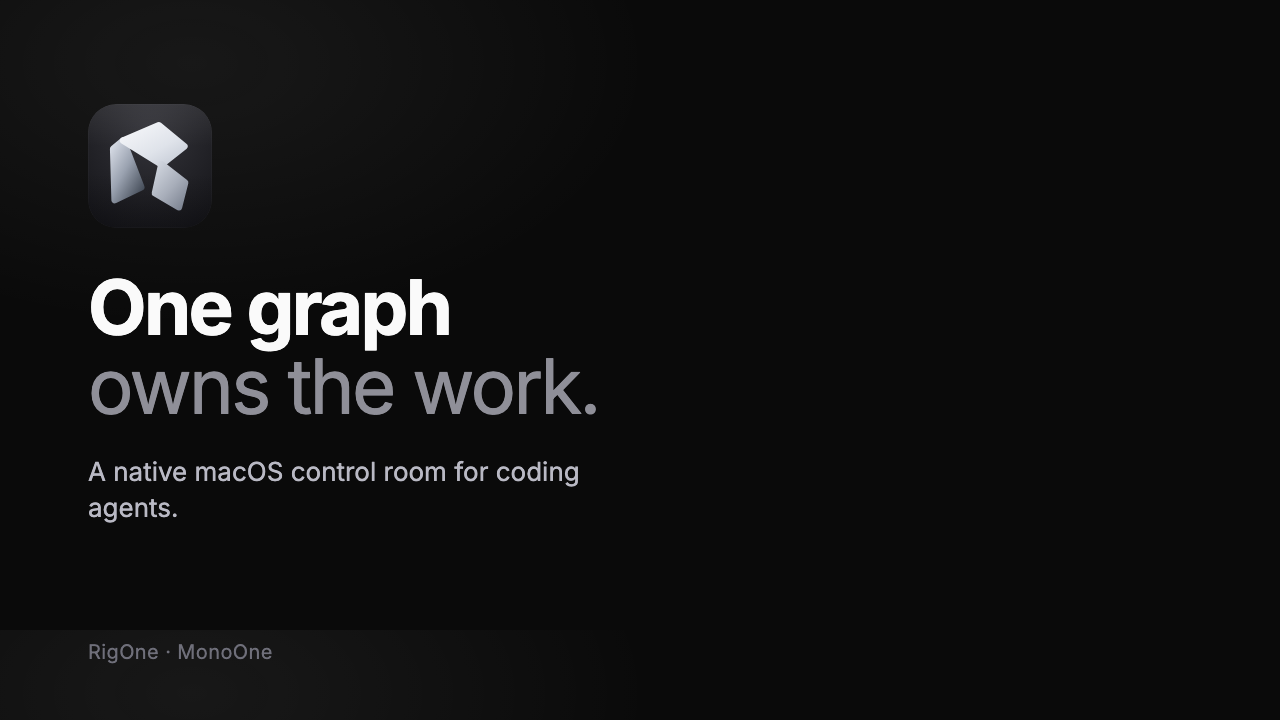
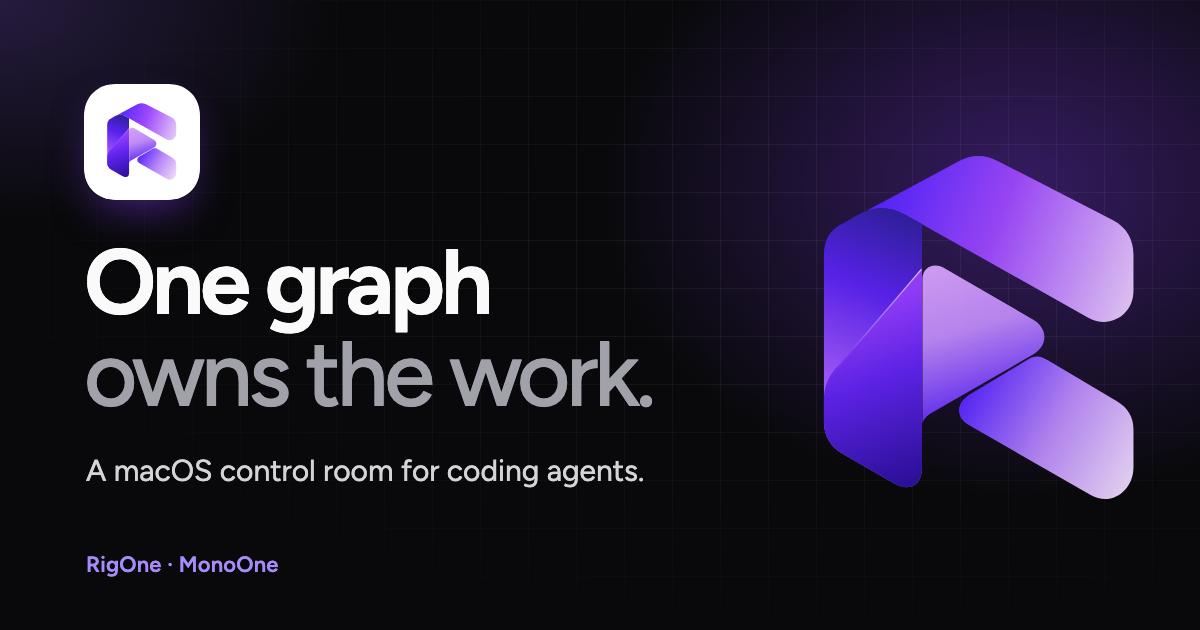
feat(site): use the new rigone mark from monoone-landing-page
RigMark.vue is now the same drawing as RigOneMark.vue in monoone-landing-page (purple ribbon on a
white tile). The favicon, app icons, web manifest and Open Graph image are generated from it.

diff --git a/app/components/RigMark.vue b/app/components/RigMark.vue
@@ -1,20 +1,20 @@
 <script setup lang="ts">
-// RigOne symbol: one ribbon folded twice, three planes. Geometry is the same drawing the
-// application ships (docs/branding/rig-one-mark.svg in monoone-dev/rig-one), scaled from the
-// 1024 icon canvas onto the 24 grid — the mark on this page and the mark in the Dock cannot
-// drift apart. Inlined so the gradient ids stay unique on a page that uses the mark twice.
-// `tile: false` drops the dark app-icon tile and leaves the folded ribbon alone.
+// RigOne symbol, from app/assets/brand/rig-one-icon.svg — the same component monoone-landing-page
+// uses (RigOneMark.vue there), so the mark cannot drift between the two sites.
+// Inlined so gradient ids stay unique on a page that shows the mark more than once.
+// Drawn on IndexOne's 1254 canvas with the same tile and shadow, so the family matches in size.
+// `tile: false` drops the white app-icon tile and crops to the folded ribbon.
 const props = withDefaults(defineProps<{ tile?: boolean }>(), { tile: true })
 
 const id = useId()
 const paint = (name: string) => `url(#${id}-${name})`
-const viewBox = computed(() => (props.tile ? '0 0 24 24' : '3.9 3.2 16.2 17.6'))
+const viewBox = computed(() => (props.tile ? '0 0 1254 1254' : '306 250 635 692'))
 </script>
 
 <template>
   <svg
     :viewBox="viewBox"
-    class="block"
+    class="block size-full overflow-visible"
     role="img"
     aria-label="RigOne"
   >
@@ -23,114 +23,191 @@ const viewBox = computed(() => (props.tile ? '0 0 24 24' : '3.9 3.2 16.2 17.6'))
         :id="`${id}-tile`"
         x1="0"
         y1="0"
-        x2="0.6"
+        x2="1"
         y2="1"
       >
-        <stop stop-color="#34343a" />
-        <stop
-          offset=".52"
-          stop-color="#232328"
-        />
-        <stop
-          offset="1"
-          stop-color="#131317"
-        />
-      </linearGradient>
-      <linearGradient
-        :id="`${id}-shaded`"
-        x1="0.1"
-        y1="0"
-        x2="0.9"
-        y2="1"
-      >
-        <stop stop-color="#d3d8e2" />
-        <stop
-          offset=".46"
-          stop-color="#9aa2b0"
-        />
-        <stop
-          offset="1"
-          stop-color="#434b57"
-        />
-      </linearGradient>
-      <linearGradient
-        :id="`${id}-lit`"
-        x1="0.05"
-        y1="0"
-        x2="0.95"
-        y2="1"
-      >
-        <stop stop-color="#f6f7fa" />
-        <stop
-          offset=".6"
-          stop-color="#dfe3ea"
-        />
-        <stop
-          offset="1"
-          stop-color="#c4cad5"
-        />
-      </linearGradient>
-      <linearGradient
-        :id="`${id}-foot`"
-        x1="0.1"
-        y1="0"
-        x2="0.9"
-        y2="1"
-      >
-        <stop stop-color="#cfd4dd" />
+        <stop stop-color="#ffffff" />
         <stop
           offset=".55"
-          stop-color="#a8aeba"
+          stop-color="#faf8ff"
         />
         <stop
           offset="1"
-          stop-color="#7f8694"
+          stop-color="#f3f0fb"
         />
       </linearGradient>
+      <linearGradient
+        :id="`${id}-upper`"
+        gradientUnits="userSpaceOnUse"
+        x1="437"
+        y1="350"
+        x2="945"
+        y2="542"
+      >
+        <stop stop-color="#5826ff" />
+        <stop
+          offset=".43"
+          stop-color="#9d48fb"
+        />
+        <stop
+          offset="1"
+          stop-color="#e6cafa"
+        />
+      </linearGradient>
+      <linearGradient
+        :id="`${id}-left`"
+        gradientUnits="userSpaceOnUse"
+        x1="457"
+        y1="372"
+        x2="309"
+        y2="724"
+      >
+        <stop stop-color="#30209f" />
+        <stop
+          offset=".42"
+          stop-color="#5922ef"
+        />
+        <stop
+          offset="1"
+          stop-color="#aa60ff"
+        />
+      </linearGradient>
+      <linearGradient
+        :id="`${id}-stem`"
+        gradientUnits="userSpaceOnUse"
+        x1="365"
+        y1="579"
+        x2="492"
+        y2="916"
+      >
+        <stop stop-color="#963eff" />
+        <stop
+          offset=".4"
+          stop-color="#6124ef"
+        />
+        <stop
+          offset="1"
+          stop-color="#2d109f"
+        />
+      </linearGradient>
+      <linearGradient
+        :id="`${id}-play`"
+        gradientUnits="userSpaceOnUse"
+        x1="560"
+        y1="482"
+        x2="646"
+        y2="773"
+      >
+        <stop stop-color="#d5a0fb" />
+        <stop
+          offset=".44"
+          stop-color="#be8af6"
+        />
+        <stop
+          offset="1"
+          stop-color="#6029fa"
+        />
+      </linearGradient>
+      <linearGradient
+        :id="`${id}-lower`"
+        gradientUnits="userSpaceOnUse"
+        x1="616"
+        y1="722"
+        x2="937"
+        y2="898"
+      >
+        <stop stop-color="#5c29ff" />
+        <stop
+          offset=".5"
+          stop-color="#b888f8"
+        />
+        <stop
+          offset="1"
+          stop-color="#ebd6fb"
+        />
+      </linearGradient>
+      <linearGradient
+        :id="`${id}-crease`"
+        gradientUnits="userSpaceOnUse"
+        x1="373"
+        y1="658"
+        x2="512"
+        y2="491"
+      >
+        <stop
+          stop-color="#d9b5ff"
+          stop-opacity=".15"
+        />
+        <stop
+          offset="1"
+          stop-color="#efe0ff"
+          stop-opacity=".9"
+        />
+      </linearGradient>
+      <filter
+        :id="`${id}-tile-shadow`"
+        x="-25%"
+        y="-20%"
+        width="150%"
+        height="155%"
+        color-interpolation-filters="sRGB"
+      >
+        <feGaussianBlur
+          in="SourceAlpha"
+          stdDeviation="30"
+        />
+        <feOffset dy="28" />
+        <feComponentTransfer result="shadow-alpha">
+          <feFuncA
+            type="linear"
+            slope=".24"
+          />
+        </feComponentTransfer>
+        <feFlood flood-color="#5a3fb8" />
+        <feComposite
+          operator="in"
+          in2="shadow-alpha"
+        />
+        <feMerge>
+          <feMergeNode />
+          <feMergeNode in="SourceGraphic" />
+        </feMerge>
+      </filter>
     </defs>
 
-    <rect
+    <path
       v-if="tile"
-      width="24"
-      height="24"
-      rx="5.44"
-      ry="5.44"
+      d="M378 92H873C1045 92 1143 197 1143 362V860C1143 1035 1048 1131 874 1131H379C200 1131 109 1037 109 861V364C109 198 204 92 378 92Z"
       :fill="paint('tile')"
+      :filter="paint('tile-shadow')"
     />
 
-    <g
-      stroke-width="0.94"
-      stroke-linejoin="round"
-    >
+    <!-- the 1024 source icon placed on IndexOne's tile (109,92 → 1143,1131) -->
+    <g transform="translate(109 92) scale(1.0098) translate(-106 -86) scale(.98)">
       <path
-        d="M4.90 8.67 L6.82 7.08 L10.29 16.13 L5.18 18.59 Z"
-        :fill="paint('shaded')"
-        :stroke="paint('shaded')"
+        :fill="paint('upper')"
+        d="M355 396 588 271C613 257 641 257 667 271L899 390C925 404 939 428 939 459V532C939 580 891 609 849 586L481 379C445 359 413 363 382 381Z"
       />
       <path
-        d="M6.82 7.08 L13.71 4.15 L18.63 8.18 L14.23 11.67 Z"
-        :fill="paint('lit')"
-        :stroke="paint('lit')"
+        :fill="paint('left')"
+        d="M382 381C415 362 446 360 481 379L514 397V887C514 924 488 937 454 916L356 860C331 845 317 824 317 796V459C317 426 332 406 355 396Z"
       />
       <path
-        d="M14.23 11.67 L18.77 15.21 L17.58 19.95 L12.98 17.25 Z"
-        :fill="paint('foot')"
-        :stroke="paint('foot')"
+        :fill="paint('stem')"
+        d="M514 488V887C514 924 488 937 454 916L356 860C331 845 317 824 317 796V751C317 725 325 705 343 684Z"
+      />
+      <path
+        :fill="paint('play')"
+        d="M515 508C515 484 538 473 561 487L737 589C767 606 768 641 738 659L540 773C527 780 519 786 515 797Z"
+      />
+      <path
+        :fill="paint('lower')"
+        d="M608 741 726 670C741 661 751 661 767 671L905 753C928 767 939 785 939 810V886C939 932 896 966 853 942L608 801C582 786 582 758 608 741Z"
+      />
+      <path
+        :fill="paint('crease')"
+        d="M343 684 513 486V490L345 686Z"
       />
     </g>
-
-    <rect
-      v-if="tile"
-      x="0.4"
-      y="0.4"
-      width="23.2"
-      height="23.2"
-      rx="5.1"
-      ry="5.1"
-      fill="none"
-      stroke="#ffffff"
-      stroke-opacity=".1"
-      stroke-width="0.8"
-    />
   </svg>
 </template>
